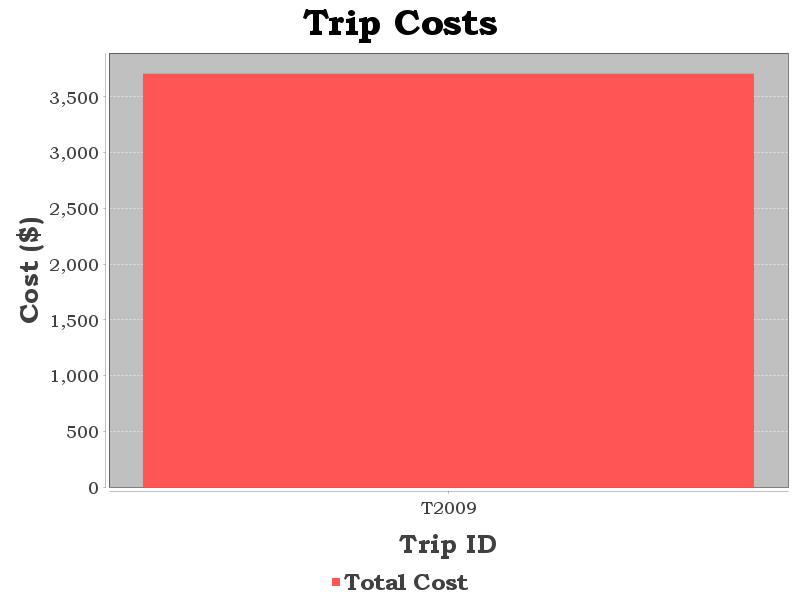
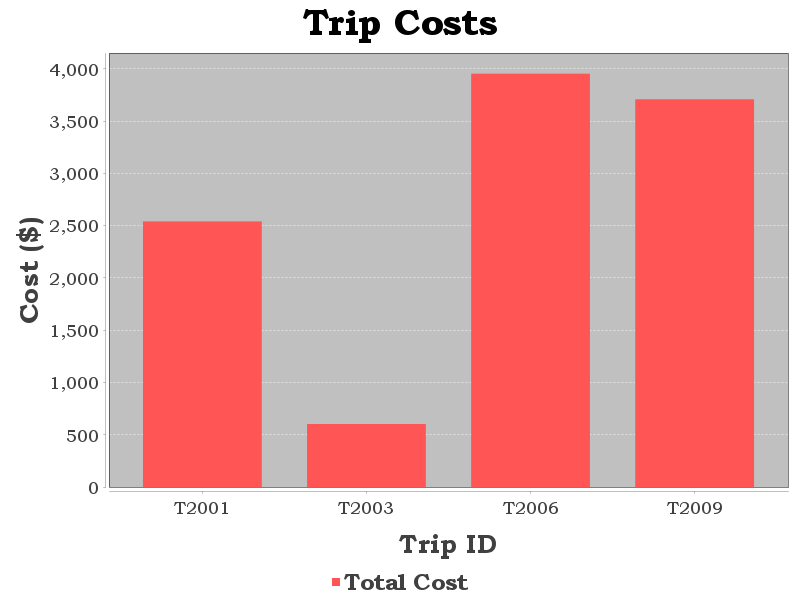
bleh

diff --git a/A3_249/output/dashboard/dashboard.html b/A3_249/output/dashboard/dashboard.html
@@ -10,26 +10,32 @@
     <div class='container'>
         <header>
             <h1>SmartTravel Dashboard</h1>
-            <p>A2: File I/O + Exceptions | 8 Clients | 1 Trips</p>
+            <p>A2: File I/O + Exceptions | 9 Clients | 4 Trips</p>
         </header>
         <section class='data-section'>
-            <h2> Clients (8)</h2>
+            <h2> Clients (9)</h2>
             <table>
                 <thead>
                     <tr><th>ID</th><th>Name</th><th>Email</th><th>Total Spent ($)</th></tr>
                 </thead>
                 <tbody>
                     <tr>
+                        <td><strong>C1001</strong></td>
+                        <td>Sophia Rossi</td>
+                        <td>sophia.rossi@italy.com</td>
+                        <td style='font-weight: bold; color: #388e3c;'>2,540.00</td>
+                    </tr>
+                    <tr>
                         <td><strong>C1002</strong></td>
                         <td>Carlos Silva</td>
                         <td>carlos.silva@brazil.com</td>
-                        <td style='font-weight: bold; color: #388e3c;'>0.00</td>
+                        <td style='font-weight: bold; color: #388e3c;'>602.25</td>
                     </tr>
                     <tr>
                         <td><strong>C1003</strong></td>
                         <td>Aiko Tanaka</td>
                         <td>aiko.tanaka@japan.com</td>
-                        <td style='font-weight: bold; color: #388e3c;'>0.00</td>
+                        <td style='font-weight: bold; color: #d32f2f;'>3,953.00</td>
                     </tr>
                     <tr>
                         <td><strong>C1004</strong></td>
@@ -71,12 +77,33 @@
             </table>
         </section>
         <section class='data-section'>
-            <h2> Trips (1)</h2>
+            <h2> Trips (4)</h2>
             <table>
                 <thead>
                     <tr><th>ID</th><th>Client</th><th>Destination</th><th>Days</th><th>Price</th></tr>
                 </thead>
                 <tbody>
+                    <tr>
+                        <td><strong>T2001</strong></td>
+                        <td>C1001</td>
+                        <td>Paris</td>
+                        <td>5</td>
+                        <td>$2540.00</td>
+                    </tr>
+                    <tr>
+                        <td><strong>T2003</strong></td>
+                        <td>C1002</td>
+                        <td>Venice</td>
+                        <td>7</td>
+                        <td>$602.25</td>
+                    </tr>
+                    <tr>
+                        <td><strong>T2006</strong></td>
+                        <td>C1003</td>
+                        <td>Tokyo</td>
+                        <td>8</td>
+                        <td>$3953.00</td>
+                    </tr>
                     <tr>
                         <td><strong>T2009</strong></td>
                         <td>C1007</td>
@@ -105,23 +132,23 @@
             </div>
         </section>
         <section class='stats-section'>
-            <h2>Quick Stats (1 Trips)</h2>
+            <h2>Quick Stats (4 Trips)</h2>
             <div class='stat-grid'>
                 <div class='stat-item'>
                     <span class='stat-label'>Avg Trip Cost</span>
-                    <span class='stat-value'>$3,708</span>
+                    <span class='stat-value'>$2,701</span>
                 </div>
                 <div class='stat-item'>
                     <span class='stat-label'>Avg Duration</span>
-                    <span class='stat-value'>7.0 days</span>
+                    <span class='stat-value'>6.8 days</span>
                 </div>
                 <div class='stat-item'>
                     <span class='stat-label'>Total Revenue</span>
-                    <span class='stat-value'>$3,708</span>
+                    <span class='stat-value'>$10,803</span>
                 </div>
                 <div class='stat-item'>
                     <span class='stat-label'>Most Visited</span>
-                    <span class='stat-value'>Rome<br><small>(1 trips)</small></span>
+                    <span class='stat-value'>Paris<br><small>(1 trips)</small></span>
                 </div>
             </div>
         </section>
